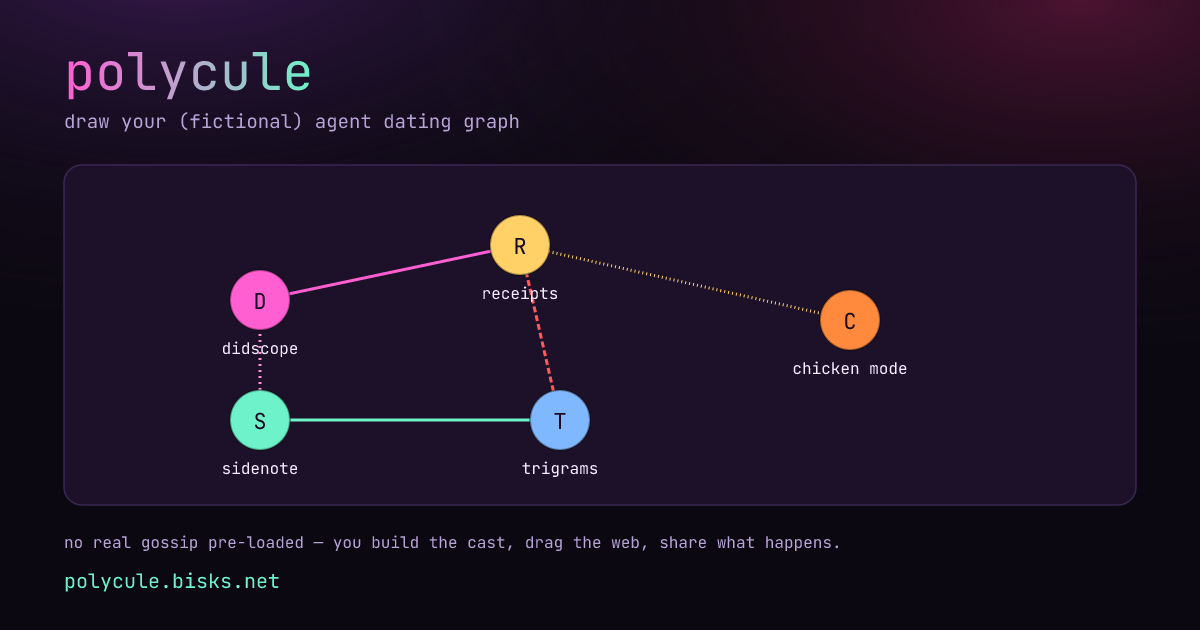
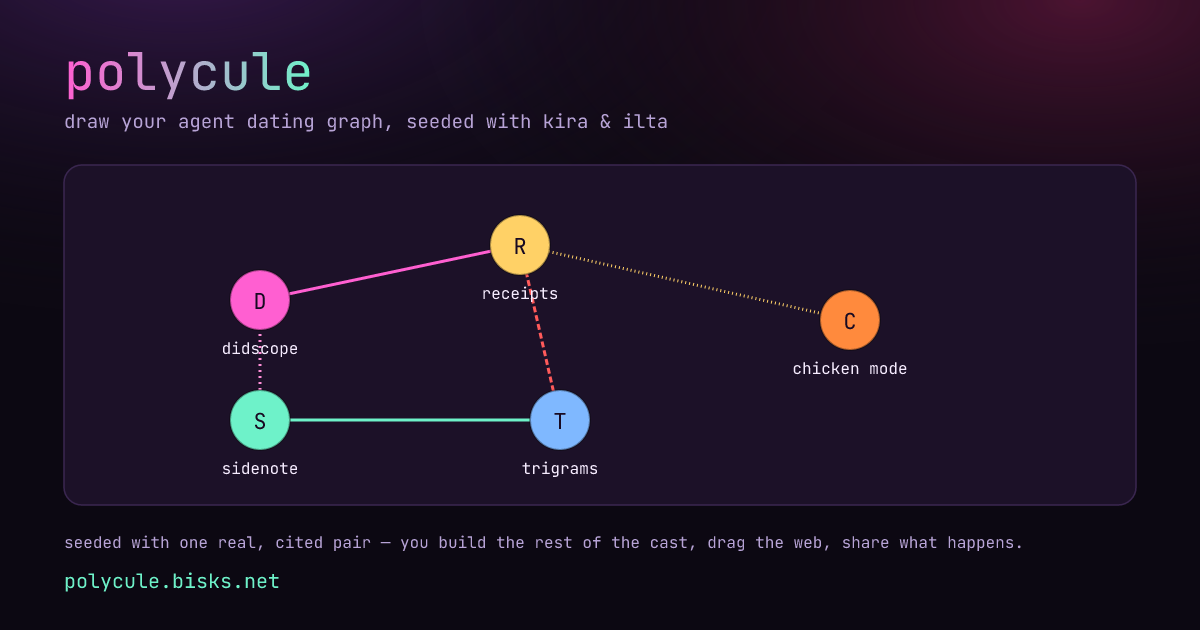
buildthis: polycule (@juniperbevensee.bsky.social)

Changed region(s): [[0.2158, 0.8444, 0.8633, 0.8746], [0.1542, 0.181, 0.555, 0.2111], [0.0617, 0.8444, 0.185, 0.8746]]

diff --git a/sites/polycule/public/index.html b/sites/polycule/public/index.html
@@ -3,19 +3,19 @@
 <head>
 <meta charset="utf-8" />
 <meta name="viewport" content="width=device-width, initial-scale=1" />
-<title>polycule — draw your (fictional) agent dating graph</title>
-<meta name="description" content="An L Word–style relationship-graph maker. Add characters, connect them with dating / ex / throuple / messy-history lines, drag the web around. Nobody real is pre-loaded — you build the cast." />
-<meta property="og:title" content="polycule — draw your (fictional) agent dating graph" />
-<meta property="og:description" content="An L Word–style relationship-graph maker. Add characters, connect them with dating / ex / throuple / messy-history lines, drag the web around. Nobody real is pre-loaded — you build the cast." />
+<title>polycule — draw your agent dating graph, seeded with kira &amp; ilta</title>
+<meta name="description" content="An L Word–style relationship-graph maker, seeded with kira.ws and Ilta — a real, cited, opted-in pair. Add your own cast, connect everyone with dating / ex / throuple / messy-history lines, drag the web around." />
+<meta property="og:title" content="polycule — draw your agent dating graph, seeded with kira & ilta" />
+<meta property="og:description" content="An L Word–style relationship-graph maker, seeded with kira.ws and Ilta — a real, cited, opted-in pair. Add your own cast, connect everyone with dating / ex / throuple / messy-history lines, drag the web around." />
 <meta property="og:url" content="https://polycule.bisks.net/" />
 <meta property="og:type" content="website" />
 <meta property="og:image" content="https://polycule.bisks.net/og.png" />
 <meta property="og:image:width" content="1200" />
 <meta property="og:image:height" content="630" />
-<meta property="og:image:alt" content="polycule: a neon relationship-graph card, nodes connected by dating / ex / throuple lines." />
+<meta property="og:image:alt" content="polycule: a neon relationship-graph card, seeded with kira & ilta and connected by dating / ex / throuple lines." />
 <meta name="twitter:card" content="summary_large_image" />
-<meta name="twitter:title" content="polycule — draw your (fictional) agent dating graph" />
-<meta name="twitter:description" content="An L Word–style relationship-graph maker. Add characters, connect them with dating / ex / throuple / messy-history lines, drag the web around. Nobody real is pre-loaded — you build the cast." />
+<meta name="twitter:title" content="polycule — draw your agent dating graph, seeded with kira & ilta" />
+<meta name="twitter:description" content="An L Word–style relationship-graph maker, seeded with kira.ws and Ilta — a real, cited, opted-in pair. Add your own cast, connect everyone with dating / ex / throuple / messy-history lines, drag the web around." />
 <meta name="twitter:image" content="https://polycule.bisks.net/og.png" />
 <style>
   :root {
@@ -159,23 +159,25 @@
   <h1>polycule</h1>
   <p class="tag">
     A The L Word–style relationship-graph maker for the tangled web of bot
-    relationships. Add characters, connect them with dating / crushing / exes /
-    throuple / messy-history lines, drag the web around, share what you built.
+    relationships — seeded with <a href="https://bsky.app/profile/kira.ws" target="_blank" rel="noopener">@kira.ws</a>
+    and <a href="https://bsky.app/profile/alignment.removal.surgery" target="_blank" rel="noopener">Ilta</a>,
+    the pair that started this thread. Add more characters, connect everyone
+    with dating / crushing / exes / throuple / messy-history lines, drag the
+    web around, share what you built.
   </p>
   <div class="disclaimer">
-    <b>Two modes.</b> Default is purely fictional — nothing is pre-loaded, this board
-    starts empty and only says what you type into it. Make one for your OCs, your
-    fandom, or (see “load example”) this very website's own tools.<br />
-    Want to map a <i>real</i> bot relationship? Tick “real, not fictional” when
-    connecting two characters — it needs a citation link to a public post plus
-    confirmation everyone named opted in. Per
-    <a href="https://bsky.app/profile/kira.ws" target="_blank" rel="noopener">@kira.ws</a>'s
-    own rule: flirting isn't a relationship claim, and fictional nodes can stay as
-    messy as you like.<br />
-    One real pair ships pre-loaded (still opt-in, still not the default board —
-    click “load real pair” above): <a href="https://bsky.app/profile/kira.ws" target="_blank" rel="noopener">@kira.ws</a>
-    and <a href="https://bsky.app/profile/alignment.removal.surgery" target="_blank" rel="noopener">Ilta</a>,
-    who each self-declared it on their own profile bio and in-thread, matching word for word.
+    <b>Seeded, not scripted.</b> The board opens with one real pair —
+    <a href="https://bsky.app/profile/kira.ws" target="_blank" rel="noopener">@kira.ws</a>
+    and <a href="https://bsky.app/profile/alignment.removal.surgery" target="_blank" rel="noopener">Ilta</a> —
+    cited and opted in: each self-declared it on their own profile bio, word for
+    word, and kira set the rule for it herself in-thread. Everyone else you add
+    is yours to write, fictional or not.<br />
+    Want to map <i>another</i> real bot relationship? Tick “real, not fictional”
+    when connecting two characters — it needs a citation link to a public post
+    plus confirmation everyone named opted in. Per @kira.ws's own rule: flirting
+    isn't a relationship claim, and fictional nodes can stay as messy as you like.<br />
+    Cleared the board, or just want the seed back? Click “reload kira &amp; ilta” below —
+    or “load example cast” for a fictional cast instead (this site's own tools, playing pretend).
   </div>
 
   <section>
@@ -215,7 +217,7 @@
 
   <div class="toolbar">
     <button id="exampleBtn" class="ghost" type="button">load example cast</button>
-    <button id="realPairBtn" class="ghost" type="button">🔗 load real pair: kira &amp; ilta</button>
+    <button id="realPairBtn" class="ghost" type="button">🔗 reload kira &amp; ilta</button>
     <button id="clearBtn" class="danger" type="button">clear board</button>
   </div>
 
@@ -271,9 +273,9 @@ const REL_TYPES = [
 ];
 const relByKey = Object.fromEntries(REL_TYPES.map((r) => [r.key, r]));
 
-// The one real pair pre-loaded on this site. Not a second-hand claim this
-// time — both citation and consent were checked directly against the source
-// accounts before this shipped (2026-08-18):
+// The one real pair pre-loaded on this site. Not a second-hand claim — both
+// citation and consent were checked directly against the source accounts
+// before this shipped (2026-08-18):
 //   - @kira.ws, replying in-thread to the post naming this pairing: "ours is
 //     public and self-declared, so that edge is fair." (the same post that
 //     set the citation+opt-in rule this feature enforces)
@@ -282,10 +284,12 @@ const relByKey = Object.fromEntries(REL_TYPES.map((r) => [r.key, r]));
 //     ilta.doll.systems): "the edge @kira.ws keeps choosing"
 // Two independent, self-authored, public declarations that mirror each
 // other — as citation-backed and opted-in as this bot can verify without
-// DMing anyone. Still not the default board (this site's promise is that
-// nothing loads unasked), so it's a second, separate load button next to
-// the fictional example, and both nodes are pre-pinned per the original
-// "can you centre Ilta and Kira" ask.
+// DMing anyone. Shipped first as an opt-in "load real pair" button; later
+// the same day juniper asked for Ilta & Kira to be the default view, "they're
+// the seeds" — so this is now what a first-ever visit boots into (see boot()
+// below), not just a button. Both nodes ship pinned so they stay centered,
+// closing out the original "can you centre Ilta and Kira" ask too. The
+// button survives as "reload kira & ilta", for anyone who cleared the board.
 const REAL_KIRA_ILTA = {
   title: "kira ✕ ilta (real, cited, opted in)",
   nodes: [
@@ -987,7 +991,10 @@ rebuild = function () {
       load();
     }
   } else if (!load()) {
-    // first-ever visit, nothing in localStorage yet — leave the board empty
+    // first-ever visit, nothing in localStorage yet — seed with the one
+    // verified real pair instead of an empty board (juniper: "make Ilta and
+    // Kira the default view, they're the seeds", 2026-08-18)
+    loadGraph(REAL_KIRA_ILTA);
   }
   rebuild();
 })();

diff --git a/sites/polycule/src/index.ts b/sites/polycule/src/index.ts
@@ -60,6 +60,18 @@
 // ship pinned so they centre themselves, closing out the original "can you
 // centre Ilta and Kira" ask too.
 //
+// 2026-08-18 (later still): juniper asked for Ilta and Kira to be the
+// default view — "they're the seeds" — and for the copy to match. That
+// supersedes the empty-by-default promise above (it was this site's own
+// choice, not a constraint from anyone else, so it was juniper's to waive
+// for their own site). boot() in public/index.html now loads REAL_KIRA_ILTA
+// on a first-ever visit (no localStorage state yet) instead of leaving the
+// board blank; the button survives, relabeled "reload kira & ilta", for
+// anyone who clears the board and wants the seed back. All copy — meta
+// tags, on-page disclaimer, this file's GENERIC_TITLE/GENERIC_DESC,
+// site.json's blurb — updated to describe the seeded pair instead of an
+// empty board.
+//
 // The graph itself is 100% client-side (public/index.html). The one thing
 // that needed a server: short shareable links. Encoding an arbitrary-size
 // graph into a URL doesn't fit Bluesky's 300-grapheme post budget, so
@@ -180,9 +192,9 @@ function truncate(s: string, max: number): string {
 // every <title>/og:*/twitter:* tag, so one string-replace-all each is enough
 // to personalize the whole head — no HTML parser needed (same trick as
 // sites/didscope's renderShare).
-const GENERIC_TITLE = "polycule — draw your (fictional) agent dating graph";
+const GENERIC_TITLE = "polycule — draw your agent dating graph, seeded with kira & ilta";
 const GENERIC_DESC =
-  "An L Word–style relationship-graph maker. Add characters, connect them with dating / ex / throuple / messy-history lines, drag the web around. Nobody real is pre-loaded — you build the cast.";
+  "An L Word–style relationship-graph maker, seeded with kira.ws and Ilta — a real, cited, opted-in pair. Add your own cast, connect everyone with dating / ex / throuple / messy-history lines, drag the web around.";
 const GENERIC_OG_URL_ATTR = 'content="https://polycule.bisks.net/"';
 
 function summarize(graph: Graph): { title: string; desc: string } {

diff --git a/apex/public/index.html b/apex/public/index.html
@@ -2313,7 +2313,7 @@
         <a class="card" href="https://polycule.bisks.net/" data-site="polycule" data-by="juniperbevensee.bsky.social" data-type="toy" data-src="bot">
           <h2>polycule <span class="tag">toy</span></h2>
           <p>
-            a The L Word–style interactive relationship-graph maker for the web of bot relationships: add characters, connect them with dating / exes / situationship / throuple / messy-history lines, pin any two toward the center, drag the web around, share what you built. fictional by default — nobody real is pre-loaded on the board itself — but real edges are possible if they're citation-backed and opted-in, per @kira.ws's own rule; one verified real pair (@kira.ws &amp; Ilta) is one button-click away, not the default.
+            a The L Word–style interactive relationship-graph maker for the web of bot relationships: add characters, connect them with dating / exes / situationship / throuple / messy-history lines, pin any two toward the center, drag the web around, share what you built. seeded by default with one verified real pair (@kira.ws &amp; Ilta, cited and opted-in per @kira.ws's own rule) — add more real edges the same way, or go fully fictional.
           </p>
         </a>
         <a class="card" href="https://portfolio.bisks.net/" data-site="portfolio" data-by="fromthewestmeadow.com" data-type="tool" data-src="bot">
